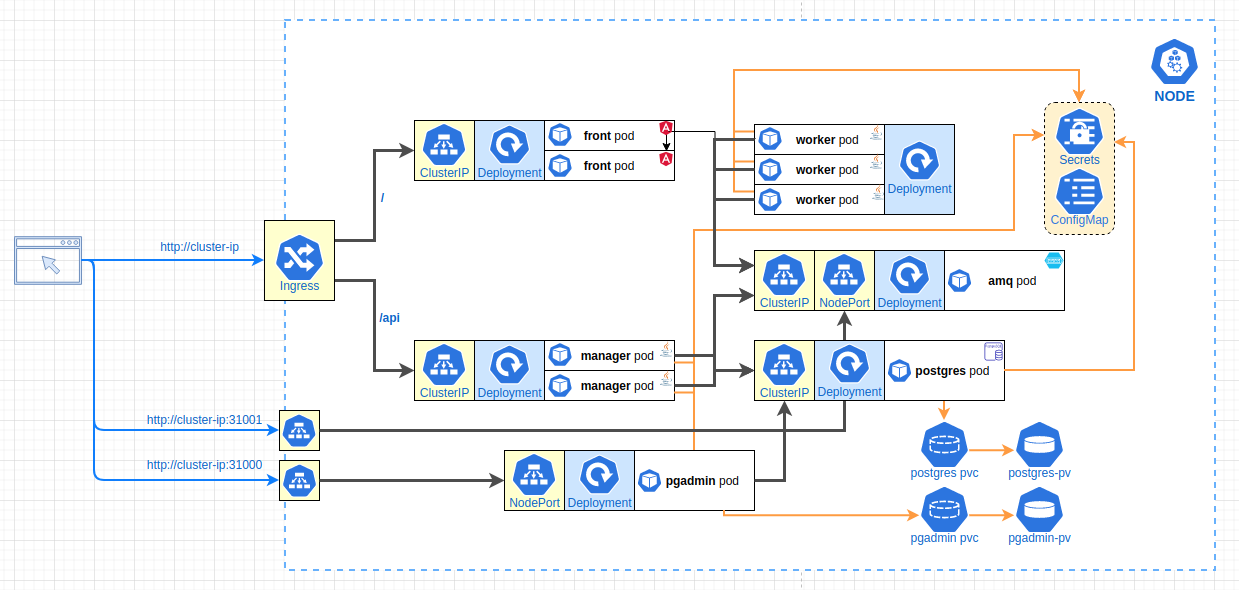
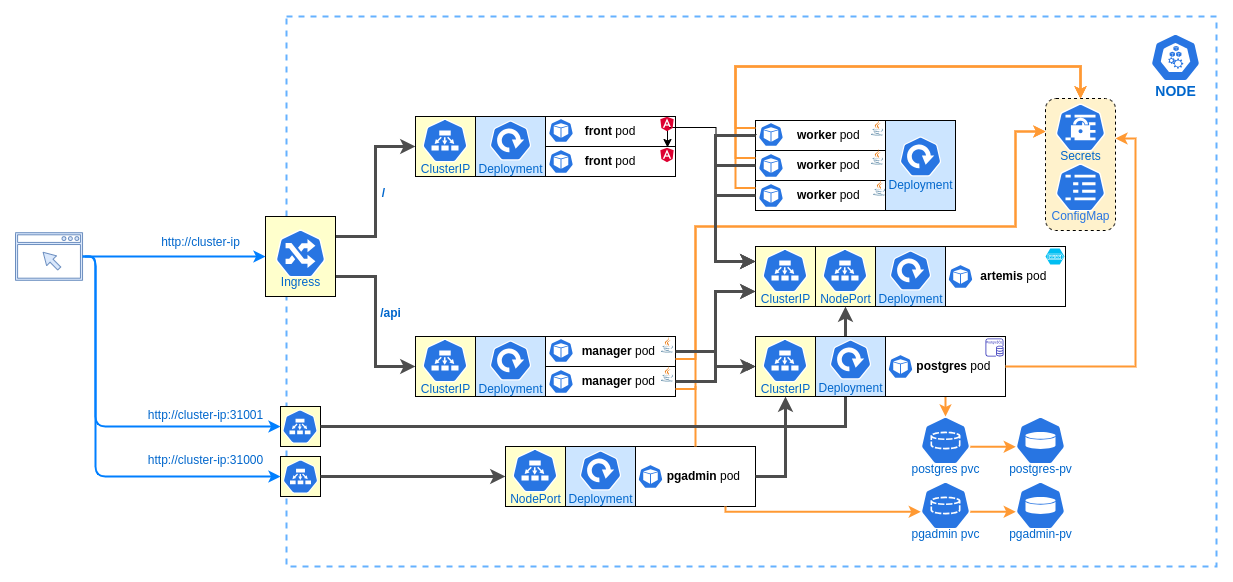
Upgrade
- new microservices versions
- artemis
- db init job

diff --git a/README.md b/README.md
@@ -1,62 +1,12 @@
 # Fibonacci on k8s
 ![](fibonacci-k8s.png)
-## Running on minikube
-
-1. Start minikube
-```
-$ minikube start
-```
-
-2. Be sure the INGRESS support is enable
-```
-$ minikube addons enable ingress
-```
-
-3. Deploy all objects located in `fib` directory to k8s cluster ()
-```
-$ kubectl apply -f fib/
-```
-
-4. Create postgres database (only once)
-   
-During first start, the manager pods will get error because database does not exist. To fix this error, run this command once (the postgres pod must be available):
-```
-kubectl -n fibonacci exec \
-  $(kubectl -n fibonacci get pod | grep postgres | sed -e 's/\s.*$//') \
-  --container=postgres -- sh -c 'psql -U "$POSTGRES_USER" -c "create database task_manager"'
-```
-
-Then verify all pods status in `fibonacci` namespace:
-```
-$ kubectl -n fibonacci get pods
-NAME                       READY   STATUS    RESTARTS   AGE
-amq-7cd79647d4-t5jgt       1/1     Running   0          2m24s
-front-67fcf8cbdd-4f7wx     1/1     Running   0          2m24s
-front-67fcf8cbdd-7chhs     1/1     Running   0          2m24s
-manager-8bc9bbcc7-2mv9v    1/1     Running   0          2m24s
-manager-8bc9bbcc7-s6tx9    1/1     Running   0          2m24s
-pgadmin-59b695468c-8h66p   1/1     Running   0          2m24s
-postgres-64489779b-bhmfk   1/1     Running   0          2m24s
-worker-65dfdcc58-4kqqz     1/1     Running   0          2m24s
-worker-65dfdcc58-86mzs     1/1     Running   0          2m24s
-worker-65dfdcc58-vnsz4     1/1     Running   0          2m24s
-```
-
-5. Now the services are available on cluster ip, e.g:
-```
-$ minikube ip
-192.168.70.2
-```
-- `http://192.168.70.2` - the Fibonacci app
-- `http://192.168.70.2:31000` - the PG admin portal (user: postgres, password: qwerty)
-- `http://192.168.70.2:31001` - the Active MQ console (user: admin, password:admin)
 
 ## Running on microk8s
 
 0. The microk8s was installed using snap
 ```
 $ snap info microk8s
-$ sudo snap install microk8s --classic --channel=1.20/stable
+$ sudo snap install microk8s --classic --channel=1.30/stable
 $ sudo usermod -a -G microk8s $USER
 ```
 
@@ -78,22 +28,13 @@ $ microk8s enable host-access
 $ microk8s kubectl apply -f fib/
 ```
 
-4. Create postgres database (only once)
-   
-During first start, the manager pods will get error because database does not exist. To fix this error, run this command once (the postgres pod must be available):
-```
-microk8s kubectl -n fibonacci exec \
-  $(microk8s kubectl -n fibonacci get pod | grep postgres | sed -e 's/\s.*$//') \
-  --container=postgres -- sh -c 'psql -U "$POSTGRES_USER" -c "create database task_manager"'
-```
-
 Then verify all pods status in `fibonacci` namespace:
 ```
 $ microk8s kubectl -n fibonacci get pods
 NAME                        READY   STATUS    RESTARTS   AGE
 front-67fcf8cbdd-hvmlr      1/1     Running   0          3m36s
 front-67fcf8cbdd-thz7g      1/1     Running   0          3m36s
-amq-7cd79647d4-6s4r5        1/1     Running   0          3m36s
+artemis-7cd79647d4-6s4r5    1/1     Running   0          3m36s
 worker-66947dc44c-d9jtr     1/1     Running   0          3m35s
 worker-66947dc44c-sj5xc     1/1     Running   0          3m35s
 worker-66947dc44c-dv89r     1/1     Running   0          3m35s
@@ -103,8 +44,50 @@ manager-9c95f4c64-8fpf8     1/1     Running   5          3m36s
 manager-9c95f4c64-f556t     1/1     Running   5          3m36s
 ```
 
-5. Now the services are available on cluster ip:
+4. Now the services are available on cluster ip, e.g:
 
 - [http://10.0.0.1](http://10.0.0.1) - the Fibonacci app
-- [http://10.0.0.1:31000](http://10.0.0.1:31000) - the PG admin portal (user: postgres, password: qwerty)
-- [http://10.0.0.1:31001](http://10.0.0.1:31001) - the Active MQ console (user: admin, password:admin)
+- [http://10.0.0.1:31000](http://10.0.0.1:31000) - the PG admin portal (user: postgres@postgres.dev, password: postgres)
+- [http://10.0.0.1:31001](http://10.0.0.1:31001) - the Artemis console (user: artemis, password:artemis)
+
+## Running on minikube
+
+1. Start minikube
+```
+$ minikube start
+```
+
+2. Be sure the INGRESS support is enable
+```
+$ minikube addons enable ingress
+```
+
+3. Deploy all objects located in `fib` directory to k8s cluster ()
+```
+$ kubectl apply -f fib/
+```
+
+Then verify all pods status in `fibonacci` namespace:
+```
+$ kubectl -n fibonacci get pods
+NAME                       READY   STATUS    RESTARTS   AGE
+artemis-7cd79647d4-t5jgt   1/1     Running   0          2m24s
+front-67fcf8cbdd-4f7wx     1/1     Running   0          2m24s
+front-67fcf8cbdd-7chhs     1/1     Running   0          2m24s
+manager-8bc9bbcc7-2mv9v    1/1     Running   0          2m24s
+manager-8bc9bbcc7-s6tx9    1/1     Running   0          2m24s
+pgadmin-59b695468c-8h66p   1/1     Running   0          2m24s
+postgres-64489779b-bhmfk   1/1     Running   0          2m24s
+worker-65dfdcc58-4kqqz     1/1     Running   0          2m24s
+worker-65dfdcc58-86mzs     1/1     Running   0          2m24s
+worker-65dfdcc58-vnsz4     1/1     Running   0          2m24s
+```
+
+4. Now the services are available on cluster ip, e.g:
+```
+$ minikube ip
+192.168.70.2
+```
+- `http://192.168.70.2` - the Fibonacci app
+- `http://192.168.70.2:31000` - the PG admin portal (user: postgres, password: qwerty)
+- `http://192.168.70.2:31001` - the Artemis console (user: artemis, password:artemis)
